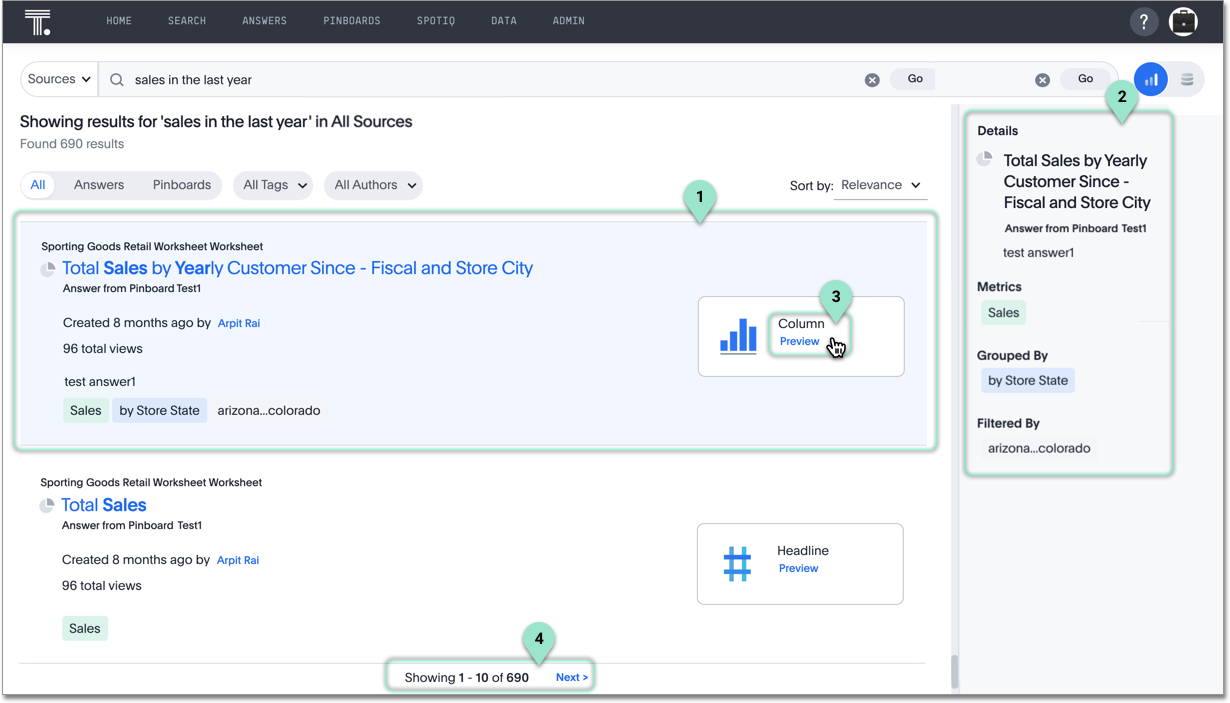
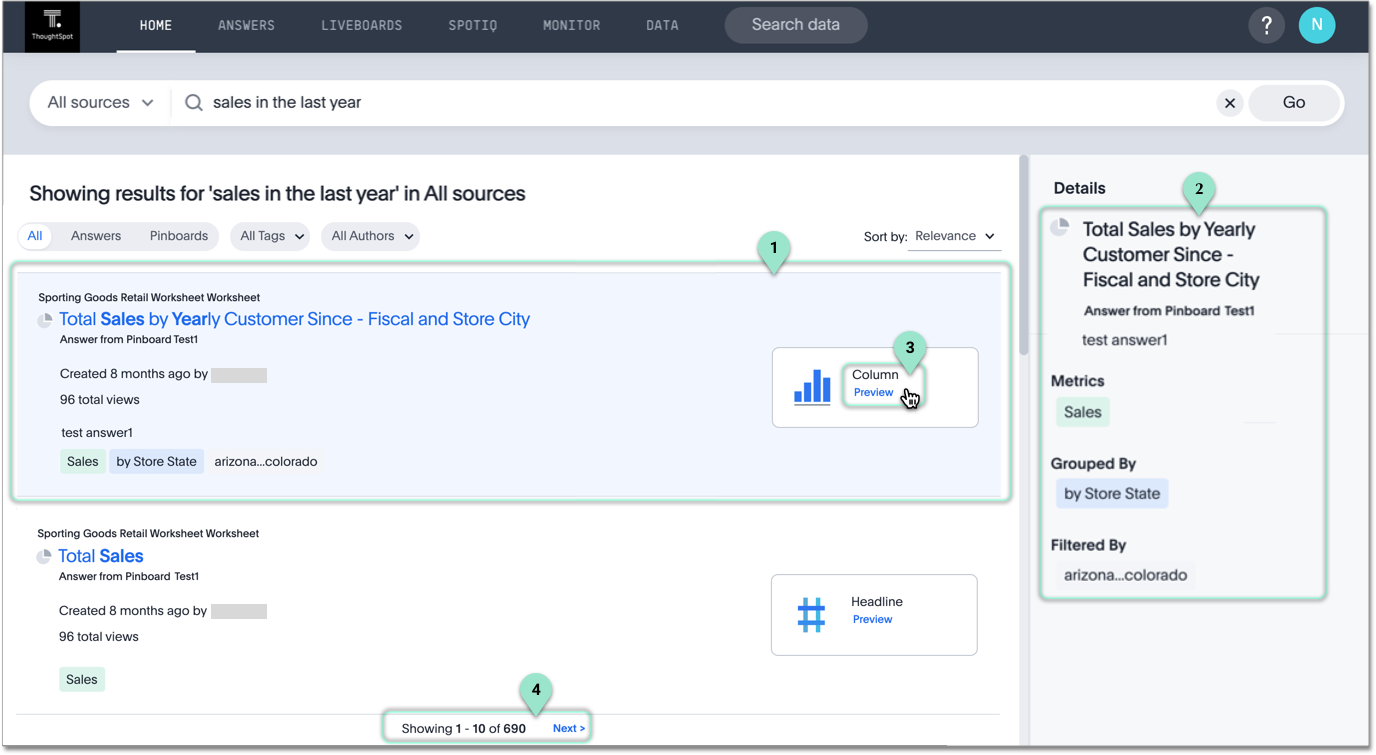
search answers

diff --git a/_end-user/search/search-answers.md b/_end-user/search/search-answers.md
@@ -1,6 +1,6 @@
 ---
 title: ["Search Answers"]
-last_updated: 11/05/2021
+last_updated: 1/18/2022
 summary: "You search existing answers and Liveboards to get correct information."
 sidebar: mydoc_sidebar
 permalink: /:collection/:path.html
@@ -18,11 +18,18 @@ Search Answers eliminates redundant construction of new answers and Liveboards b
 
 ## How to search answers
 
-![]({{ site.baseurl }}/images/search-answers.png "Search across existing Answers")
+To search answers and Liveboards, select **Search answers and Liveboards** from the navigation bar.
 
-1. To search answers and Liveboards, toggle the **Search type** icon to **Search Answers** at the top right, next to the search bar: ![]({{ site.baseurl }}/images/search-toggle-answers.png){: .inline}. ThoughtSpot remembers your choice across sessions when you switch between <strong>Search Answers</strong> and <strong>Search Data</strong>.
+![]({{ site.baseurl }}/images/search-answers-bar.png "Search across existing Answers")
+
+As you enter terms in the search bar, ThoughtSpot suggests relevant answers and Liveboards. Select one of the suggested answers, or press enter to navigate to the Search Answers page.
+
+### Navigate the Search Answers page
+
+![]({{ site.baseurl }}/images/search-answers-page.png "Search across existing Answers")
 
 2. You can select a specific worksheet from the **Sources** dropdown to the left of the search bar. By default, you search across all worksheets for which you have access.
+
 
 3. You can search across all existing answers and Liveboards (default), only answers, or only Liveboards.
 
